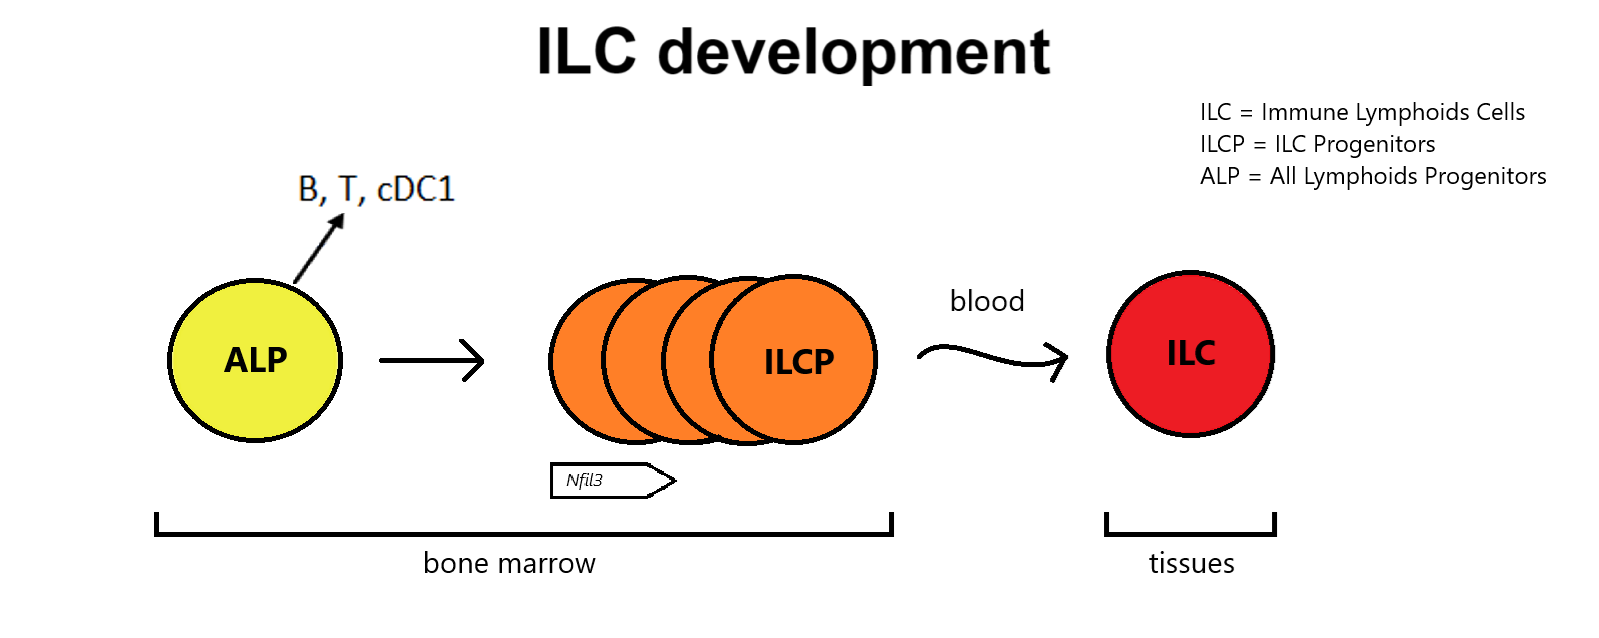
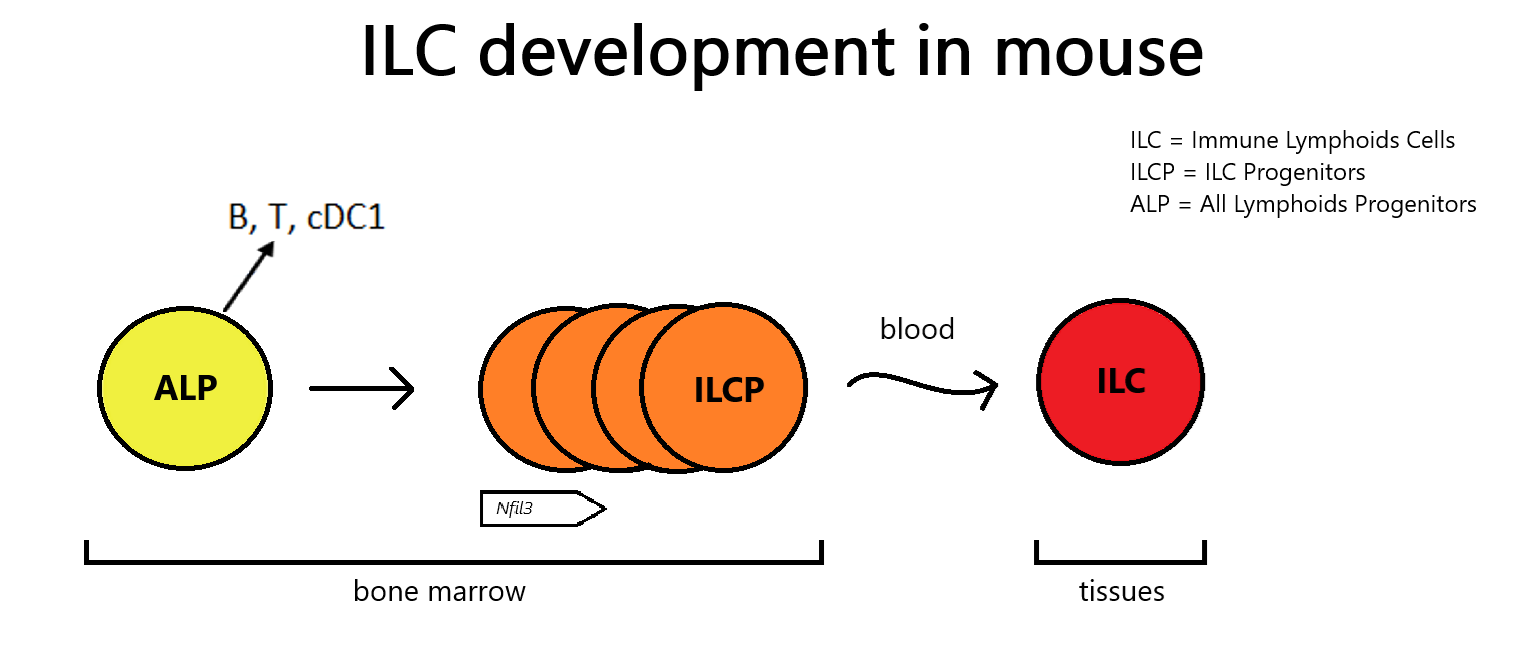
Updated files

diff --git a/README.md b/README.md
@@ -5,13 +5,13 @@ Figure adaptée de l'article [Harly et al. 2018](https://doi.org/10.1084/jem.201
 
 Code source utilisé dans le papier: 
 
----
-
 ## Description
 
 Ce dépôt contient les scripts et les ressources utilisés pour générer les graphiques, et les hypothèses effectués dans l'article ci-dessus.
 
 Il permet la caractérisation des domaines et résidus fonctionnels, l'analyse de la relation structure-fonction, ainsi que l'étude des potentiels partenaires protéiques du facteur de transcription NFIL3 dans le développement des ILC murins.
+
+---
 
 ## Installation
 
@@ -30,12 +30,18 @@ conda env create -f environment.yml
 conda activate NFIL3_ILC
 ```
 
+---
+
 ## Utilisation 
 
 ### Analyse de la conservation
 
 ### Analyse des interactions protéine-protéine
 
-### Scripts dans PyMOL
+### Scripts utiles dans PyMOL
 
 ## Citation
+
+```bibtex
+
+```